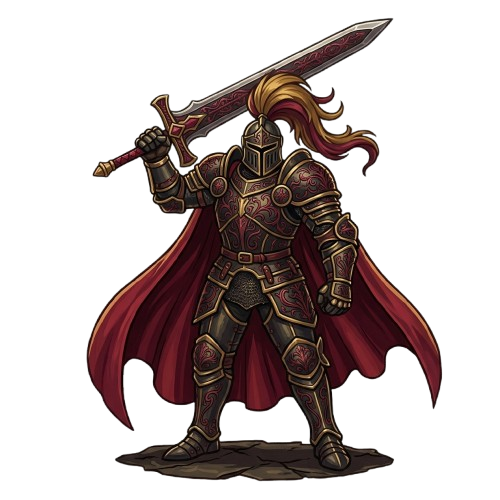
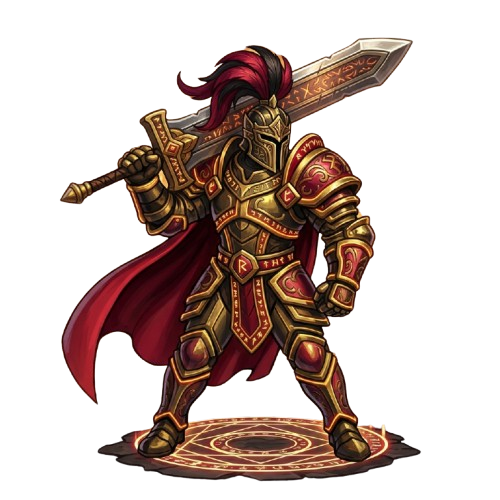
유닛 좌우 반전 + 걷기 뒤뚱 애니메이션
- 아트를 전부 오른쪽 기준으로 통일, 적군만 런타임 flip
- 걷는 중(state=moving) 발바닥 피벗 좌우 기울임 + 발짝 bob (와우식 뒤뚱)
- 유닛마다 id 위상차로 군중 흔들림 자연스럽게, 이속 비례 걸음속도
- 우향 스프라이트 5종 갱신(catapult/cavalry/knightMini/mageMini/paladinBoss)

diff --git a/src/components/BattleField.tsx b/src/components/BattleField.tsx
@@ -311,6 +311,9 @@ export const BattleField = memo(function BattleField({ config, heroDef, speed, r
   // 모든 엔티티를 단일 Picture에 명령형으로 그린다 (React 재조정 회피)
   const picture = createPicture((canvas: SkCanvas) => {
     const cache = paintCache.current;
+    // 걷기 흔들림용 시간값 (setFrame으로 매 프레임 picture 재생성 → 계속 진행)
+    const nowSec = performance.now() / 1000;
+    const TAU = Math.PI * 2;
     const fill = (color: string): SkPaint => {
       const key = `f|${color}`;
       let p = cache.get(key);
@@ -447,6 +450,7 @@ export const BattleField = memo(function BattleField({ config, heroDef, speed, r
         const src = Skia.XYWHRect(0, 0, img.width(), img.height());
         const dst = Skia.XYWHRect(ex - hw, ey - hw, hw * 2, hw * 2);
         // 팀 베이스 디스크 — 발밑 타원(스프라이트를 가리지 않으면서 진영 즉시 식별)
+        // 흔들림/반전 트랜스폼 '밖'에서 그림 → 그림자는 고정, 발만 뒤뚱거림
         const baseRx = hw * 0.72;
         const baseRy = hw * 0.3;
         const baseCy = ey + hw * 0.66;
@@ -454,6 +458,25 @@ export const BattleField = memo(function BattleField({ config, heroDef, speed, r
           Skia.XYWHRect(ex - baseRx, baseCy - baseRy, baseRx * 2, baseRy * 2),
           fill(isEnemy ? ENEMY_BASE : ALLY_BASE),
         );
+
+        // ── 걷기 뒤뚱 + 좌우 반전 트랜스폼 ──
+        // 아트는 전부 오른쪽 기준 → 적군만 flip. 걷는 중이면 발바닥(baseCy) 피벗으로
+        // 좌우로 기울이고(rotate) 발짝마다 살짝 들어(bob) 와우식 뒤뚱거림.
+        canvas.save();
+        if (e.state === 'moving') {
+          const walkHz = 1.6 + e.moveSpeed * 0.03;             // 이속 빠를수록 빠른 걸음
+          const phase = nowSec * walkHz * TAU + e.id * 1.3;    // id로 유닛마다 위상 어긋남
+          const tiltDeg = 6.5 * Math.sin(phase);              // ±6.5° 좌우 흔들
+          const bob = Math.abs(Math.sin(phase)) * hw * 0.05;  // 발짝마다 살짝 들림
+          canvas.translate(0, -bob);
+          canvas.rotate(tiltDeg, ex, baseCy);
+        }
+        if (isEnemy) {
+          canvas.translate(ex, 0);
+          canvas.scale(-1, 1);
+          canvas.translate(-ex, 0);
+        }
+
         if (e.hitFlash > 0) {
           // 피격 번쩍 — 흰색 틴트 (팀 틴트보다 우선)
           const hitP = Skia.Paint();
@@ -474,6 +497,7 @@ export const BattleField = memo(function BattleField({ config, heroDef, speed, r
           tintP.setAlphaf(isEnemy ? 0.24 : 0.18);
           canvas.drawImageRect(img, src, dst, tintP);
         }
+        canvas.restore();
       }
       // 스프라이트 없는 유닛은 표시 안 함 (미구현 종족 추가 전까지 비어있음)
     };
